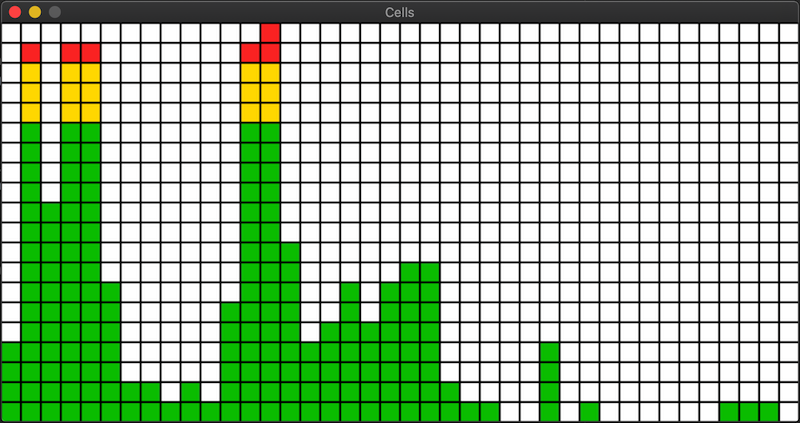
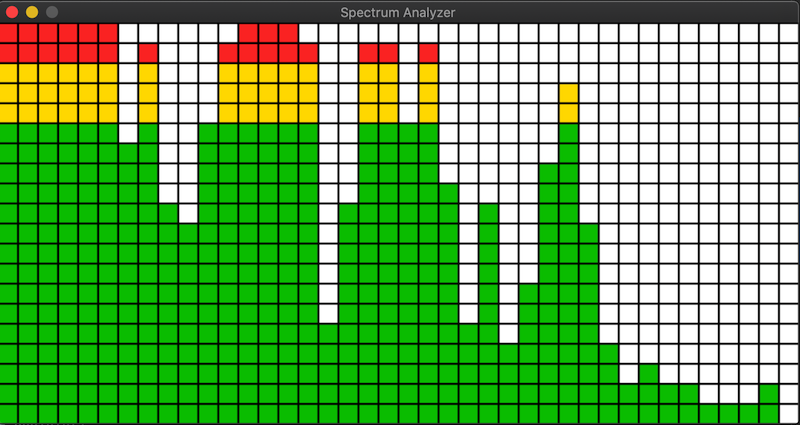
media

diff --git a/PyAudioSpectro.py b/PyAudioSpectro.py
@@ -40,7 +40,7 @@ class Spectrum:
 
         size = (SCREENWIDTH, SCREENHEIGHT)
         self.screen = pygame.display.set_mode(size)
-        pygame.display.set_caption("Cells")
+        pygame.display.set_caption("Spectrum Analyzer")
 
         self.fps = fps
 
